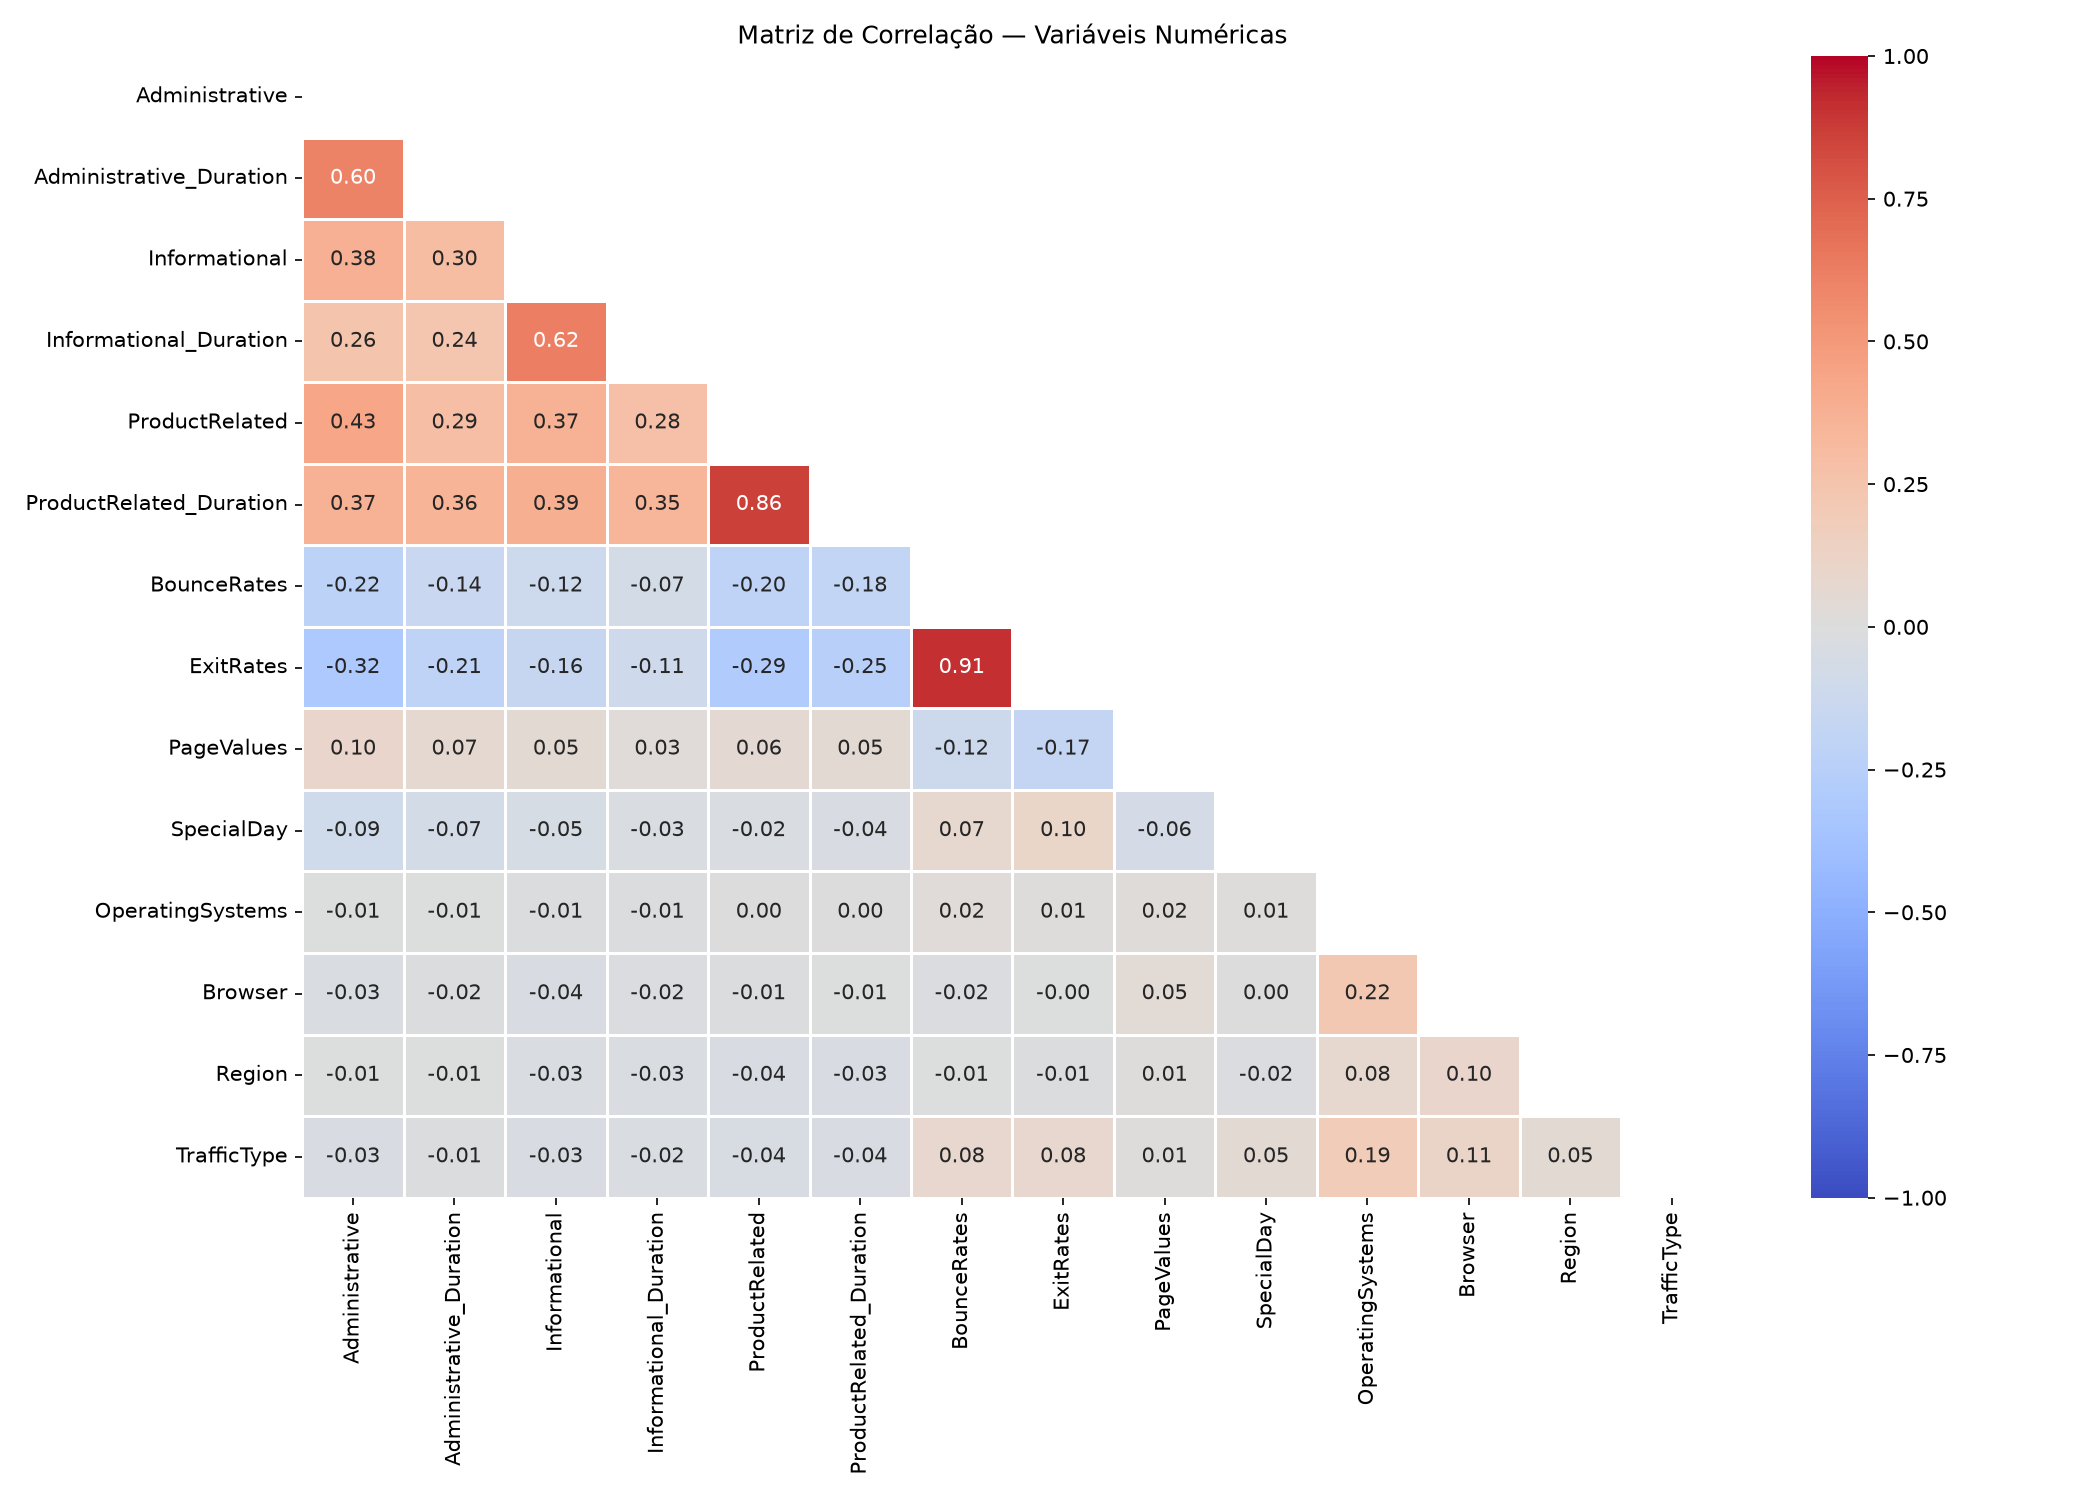
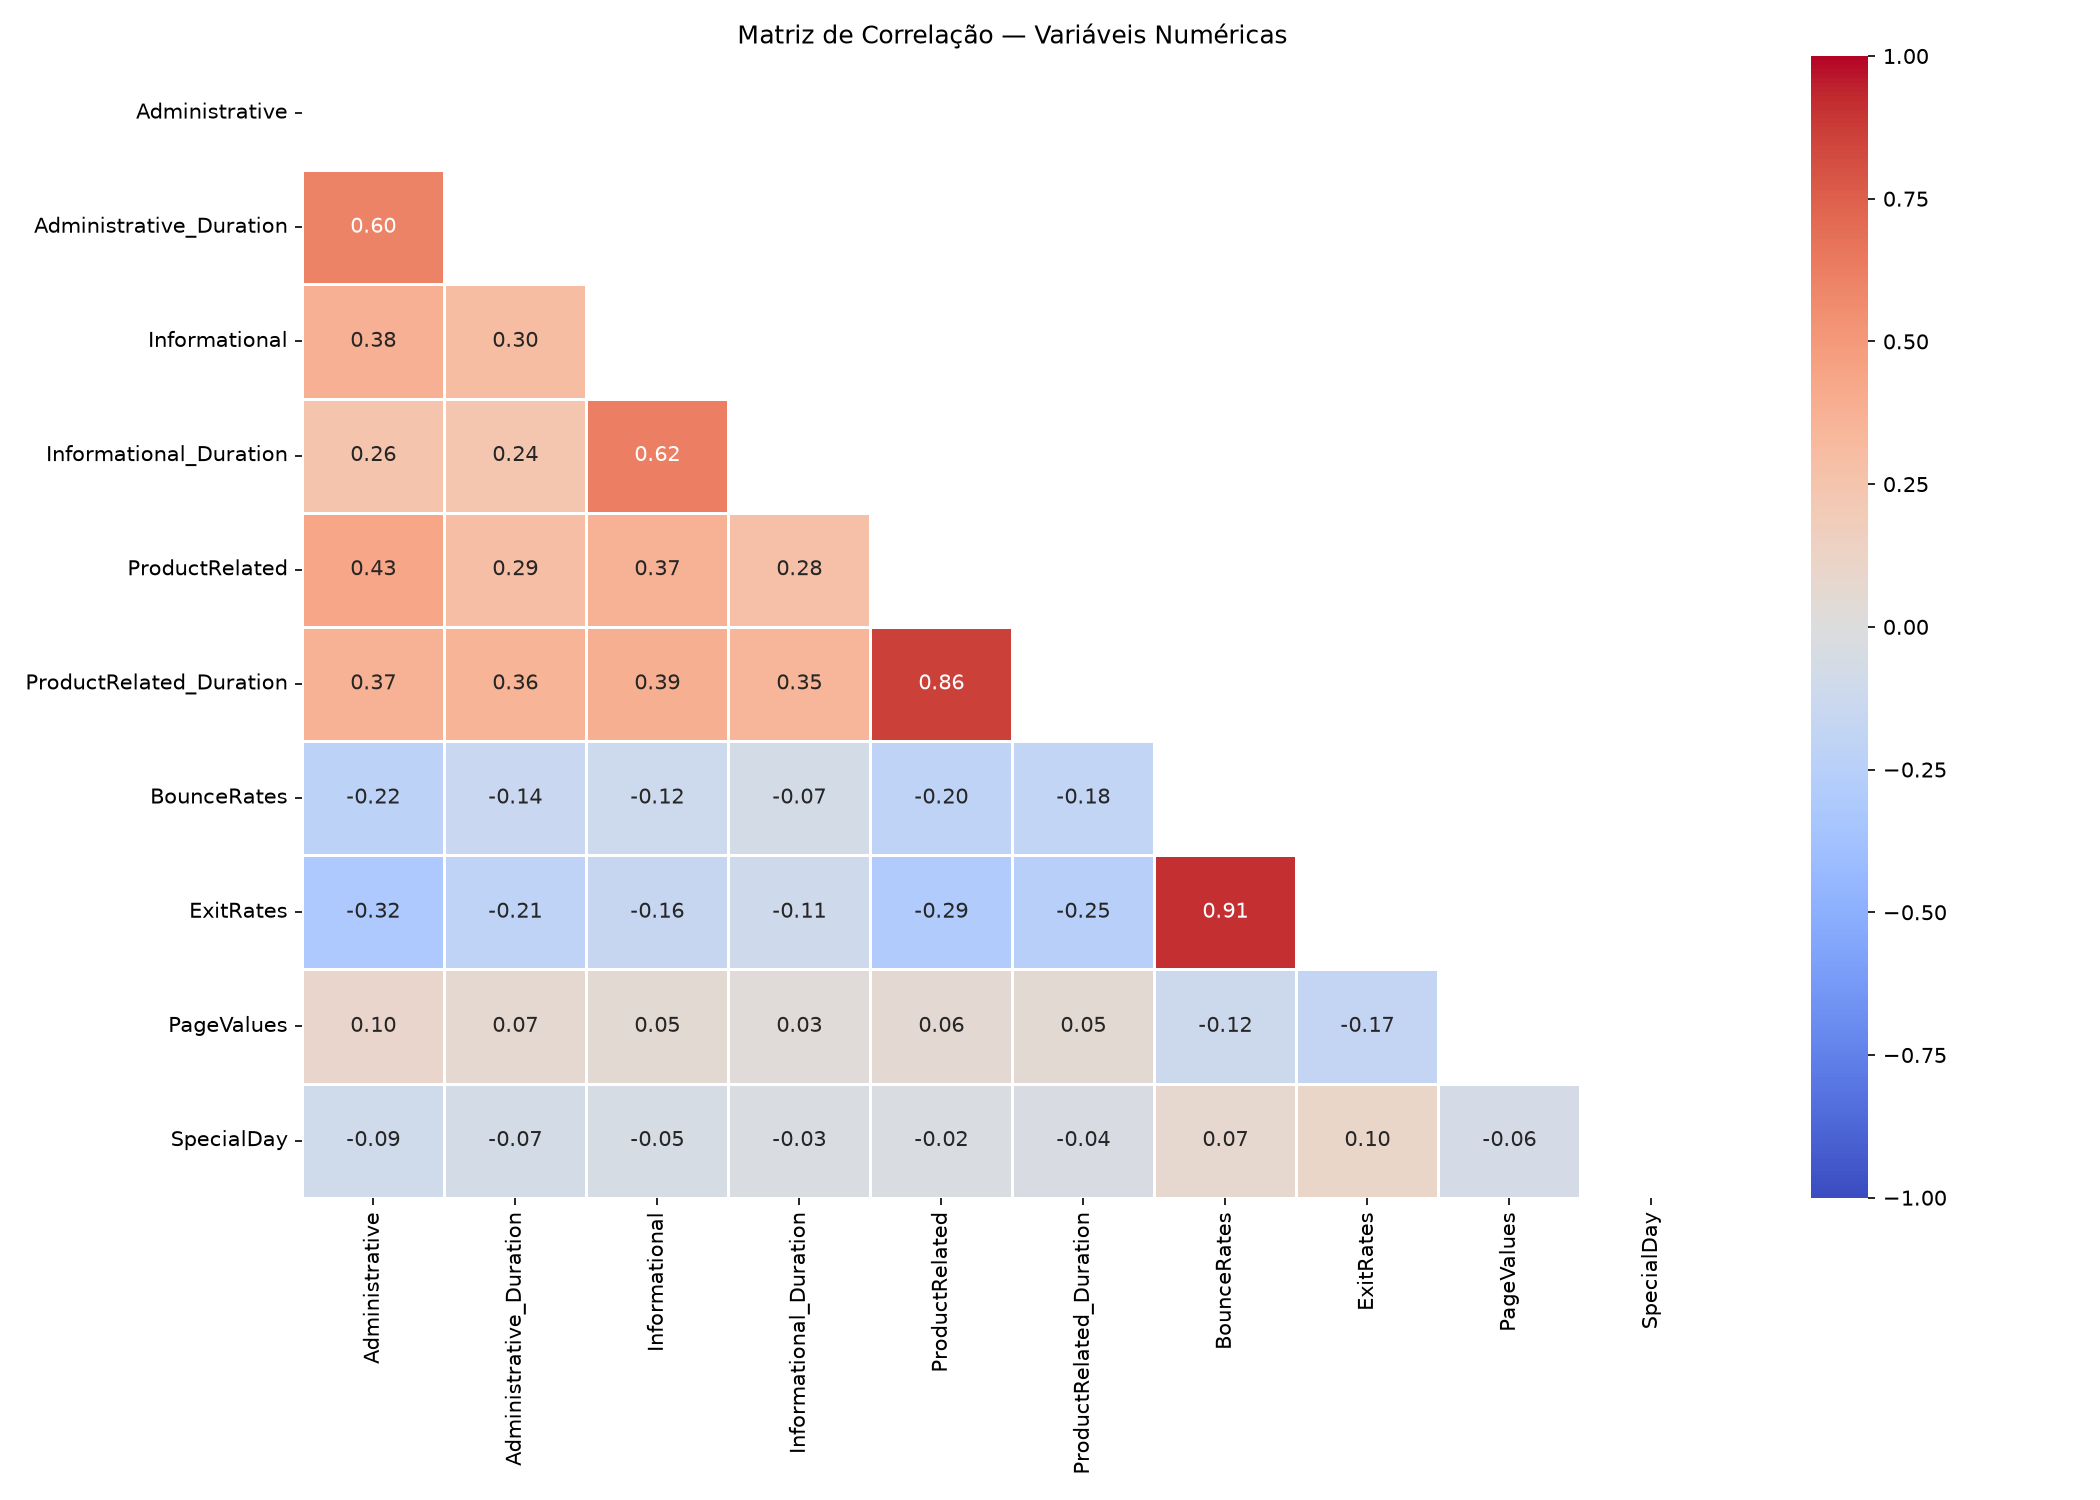
fix: pandas 3, síntese da EDA, resultados atualizados e .gitignore

diff --git a/t1_spot_checking.py b/t1_spot_checking.py
@@ -79,6 +79,9 @@ dataset = fetch_ucirepo(id=468)
 X_raw = dataset.data.features          
 y_raw = dataset.data.targets.squeeze()
 
+# OperatingSystems, Browser, Region e TrafficType são códigos inteiros sem
+# relação de ordem (Region=9 não é "maior" que Region=1): convertidos para
+# texto para serem tratados como categóricos na EDA e no pré-processamento.
 CODED_CAT_COLS = ['OperatingSystems', 'Browser', 'Region', 'TrafficType']
 X_raw = X_raw.copy()
 X_raw[CODED_CAT_COLS] = X_raw[CODED_CAT_COLS].astype(str)
@@ -138,7 +141,9 @@ plt.close()
 
 # --- 2.4 Identificar tipos de colunas ---
 num_cols = X_raw.select_dtypes(include=[np.number]).columns.tolist()
-cat_cols = X_raw.select_dtypes(include=['object', 'bool']).columns.tolist()
+# exclude=[np.number] em vez de include=['object', ...]: no pandas 3 texto tem
+# dtype 'str', e incluí-lo via 'object' está depreciado.
+cat_cols = X_raw.select_dtypes(exclude=[np.number]).columns.tolist()
 print(f"\nVariáveis numéricas ({len(num_cols)}): {num_cols}")
 print(f"Variáveis categóricas/booleanas ({len(cat_cols)}): {cat_cols}")
 
@@ -177,7 +182,9 @@ plt.savefig(LOGS_DIR / "eda_03_correlation_matrix.png", dpi=150)
 plt.close()
 
 # --- 2.8 Relação de variáveis-chave com o alvo ---
-# TODO: Adicionar/remover colunas conforme análise visual revelar.
+# Selecionadas as métricas do Google Analytics (PageValues, BounceRates,
+# ExitRates) e as durações por tipo de página: são as variáveis numéricas com
+# maior correlação com Revenue e as que melhor descrevem o engajamento na sessão.
 highlight_features = ['PageValues', 'BounceRates', 'ExitRates',
                        'ProductRelated_Duration', 'Administrative_Duration',
                        'Informational_Duration']
@@ -194,7 +201,28 @@ plt.savefig(LOGS_DIR / "eda_04_feature_vs_target.png", dpi=150)
 plt.close()
 
 # --- 2.9 Síntese da EDA ---
-# TODO: Preencher após a análise visual com um resumo textual dos achados.
+# 1. Alvo desbalanceado: 84,5% sem compra x 15,5% com compra (5,46:1) ->
+#    Accuracy é enganosa; usar ROC-AUC/F1 e balancear o treino (SMOTENC).
+# 2. Sem valores faltantes; 125 duplicatas exatas (1,01%), sem alvo
+#    conflitante, quase todas sessões de 1 página sem compra -> mantidas.
+# 3. Numéricas com forte assimetria à direita (skew de 2 a 7,6) e escalas
+#    muito diferentes (ProductRelated_Duration chega a ~64 mil s; taxas em
+#    [0, 0,2]) -> padronização necessária para kNN, LR e SMOTENC.
+# 4. PageValues é o atributo mais informativo (corr. 0,49 com o alvo): é zero
+#    em 77,9% das sessões, e a taxa de compra é 56,3% quando PageValues > 0
+#    contra 3,9% quando = 0. Como é calculado a partir de páginas visitadas
+#    antes de transações, pode carregar informação próxima do próprio alvo
+#    (possível vazamento) — ponto a discutir no relatório.
+# 5. ExitRates (-0,21) e BounceRates (-0,15) se relacionam negativamente com a
+#    compra; as durações/contagens de páginas, positivamente (0,07 a 0,16).
+# 6. Pares redundantes: BounceRates x ExitRates (0,91) e ProductRelated x
+#    ProductRelated_Duration (0,86). Mantidos no spot-checking (modelos de
+#    árvore não são afetados), mas relevantes para LR e NB.
+# 7. Categóricas: taxa de compra varia por mês (1,6% em Feb a 25,4% em Nov;
+#    Jan e Apr ausentes) e é maior em novos visitantes (24,9%) que em
+#    recorrentes (13,9%). OperatingSystems, Browser, Region e TrafficType são
+#    códigos nominais (one-hot); TrafficType, Browser e OperatingSystems têm
+#    categorias raras (< 30 sessões) -> handle_unknown='ignore' no One-Hot.
 
 # ==============================================================
 # SEÇÃO 3: PRÉ-PROCESSAMENTO DOS DADOS
@@ -204,16 +232,20 @@ X = X_raw.copy()
 y = y_raw.astype(int)  
 
 # --- 3.1 Tratamento de valores faltantes ---
+# O dataset não possui valores faltantes (ver 2.2); o bloco abaixo é mantido
+# por robustez. Atribuição explícita (X[col] = ...) em vez de inplace=True:
+# no pandas 3 (Copy-on-Write), X[col].fillna(..., inplace=True) não altera X.
 for col in X.select_dtypes(include=[np.number]).columns:
     if X[col].isnull().sum() > 0:
-        X[col].fillna(X[col].median(), inplace=True)
-for col in X.select_dtypes(include=['object', 'bool']).columns:
+        X[col] = X[col].fillna(X[col].median())
+for col in X.select_dtypes(exclude=[np.number]).columns:
     if X[col].isnull().sum() > 0:
-        X[col].fillna(X[col].mode()[0], inplace=True)
+        X[col] = X[col].fillna(X[col].mode()[0])
 
 # --- 3.2 Codificação de variáveis categóricas ---
-# to one-hot enconding:
-# 'Month', 'VisitorType', 'Weekend', 'OperatingSystems', 'Browser', 'Region' e 'TrafficType'.
+# Atributos nominais que recebem One-Hot Encoding (dentro do pipeline, após o
+# SMOTENC — ver 4.4): 'Month', 'VisitorType', 'Weekend', 'OperatingSystems',
+# 'Browser', 'Region' e 'TrafficType'. Aqui eles são mantidos como texto.
 X['Weekend'] = X['Weekend'].astype(str)
 CAT_FEATURES = ['Month', 'VisitorType', 'Weekend'] + CODED_CAT_COLS
 NUM_FEATURES = [c for c in X.columns if c not in CAT_FEATURES]
@@ -225,7 +257,7 @@ print(f"Numéricos ({len(NUM_FEATURES)}): {NUM_FEATURES}")
 print(f"Categóricos ({len(CAT_FEATURES)}): {CAT_FEATURES}")
 print(f"Colunas após One-Hot (no pipeline): {n_onehot}")
 
-# --- 3.4 Verificação de desbalanceamento ---
+# --- 3.3 Verificação de desbalanceamento ---
 class_dist = pd.Series(y).value_counts().sort_index()
 ratio = class_dist[0] / class_dist[1]
 print(f"\n=== Distribuição de classes ===")
@@ -243,8 +275,12 @@ print(f"\n=== Dados prontos para modelagem: X{X_final.shape}, y{y_final.shape} =
 
 # --- 4.1 Problema e abordagem ---
 # Tarefa: Classificação binária (Revenue: compra=1 / não compra=0)
-# Justificativa: variável alvo é categórica (booleana), binárica.
-# TODO: Expandir justificativa no relatório.
+# Justificativa: a variável alvo é booleana (a sessão terminou ou não em
+# compra), portanto discreta com duas classes — não há valor contínuo a
+# prever, o que descarta regressão. Do ponto de vista do negócio, a pergunta
+# é "este visitante vai comprar?", e a probabilidade estimada pelo
+# classificador permite ordenar sessões por propensão de compra (ex.: para
+# ofertas direcionadas), o que também motiva o uso da ROC-AUC como métrica.
 
 # --- 4.2 Métricas de avaliação ---
 # Dataset desbalanceado (~84/16) -> Accuracy sozinha é enganosa.
@@ -264,7 +300,9 @@ METRIC_PRINCIPAL = 'test_roc_auc'
 N_SPLITS  = 10  # k-folds
 N_REPEATS = 10  # repetições com shuffles diferentes
 
-#problema de MemoryError, da pra aumentar (testar).
+# Processos paralelos no cross_validate. Cada processo carrega sua própria
+# cópia dos dados; com -1 (todos os núcleos) houve MemoryError. Pode ser
+# aumentado se houver RAM sobrando, ou reduzido em caso de MemoryError.
 N_JOBS = 4
 cv_strategy = RepeatedStratifiedKFold(
     n_splits=N_SPLITS,
@@ -273,7 +311,8 @@ cv_strategy = RepeatedStratifiedKFold(
 )
 
 # --- 4.4 Função auxiliar de pipeline ---
-# Após o 1º ColumnTransformer as colunas ficam na ordem NUM_FEATURES + CAT_FEATURES, então as categóricas ocupam os índices abaixo.
+# Após o 1º ColumnTransformer as colunas ficam na ordem NUM_FEATURES +
+# CAT_FEATURES, então as categóricas ocupam os índices abaixo.
 CAT_IDX = list(range(len(NUM_FEATURES), len(NUM_FEATURES) + len(CAT_FEATURES)))
 
 def to_float(X):
